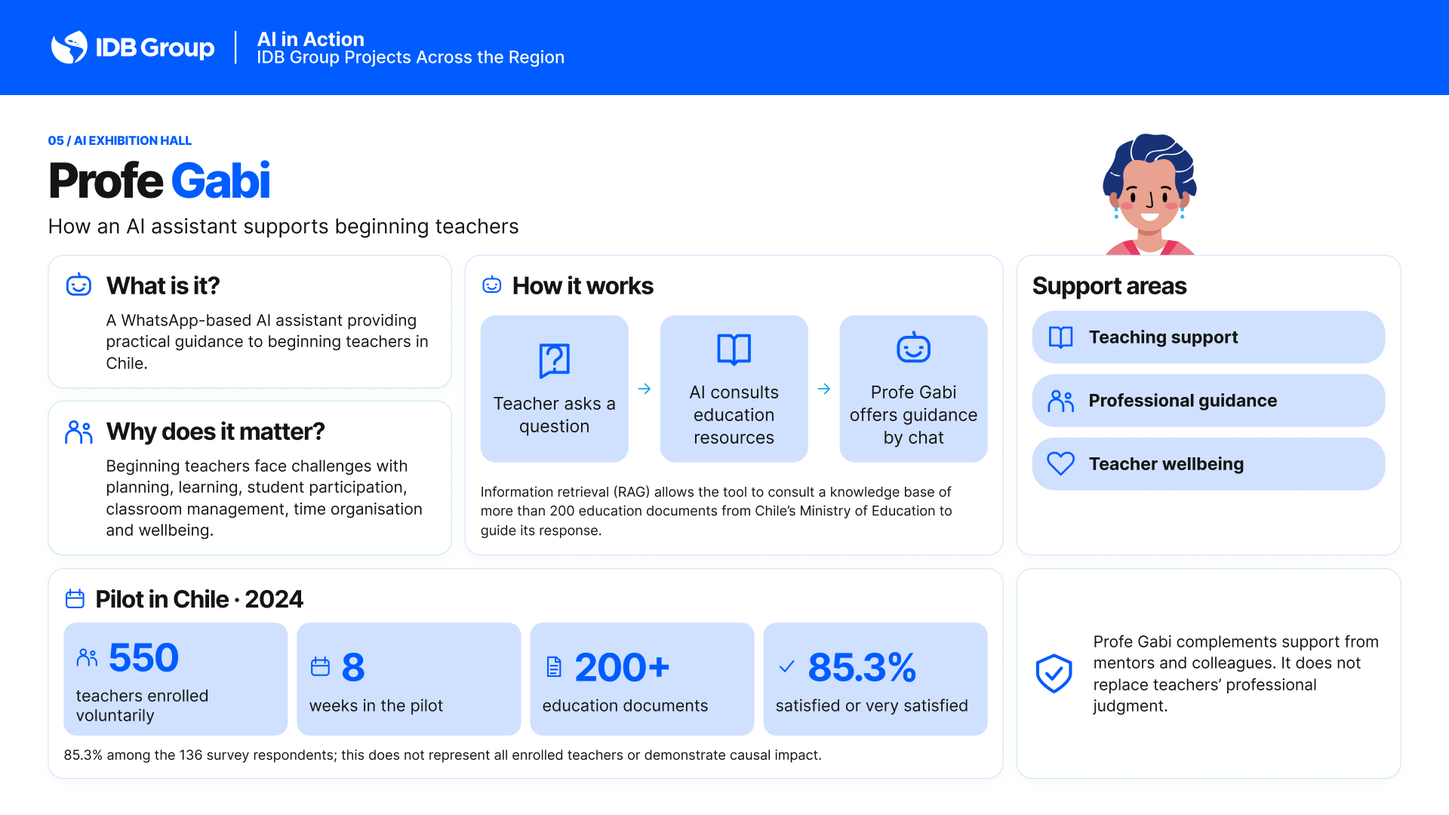
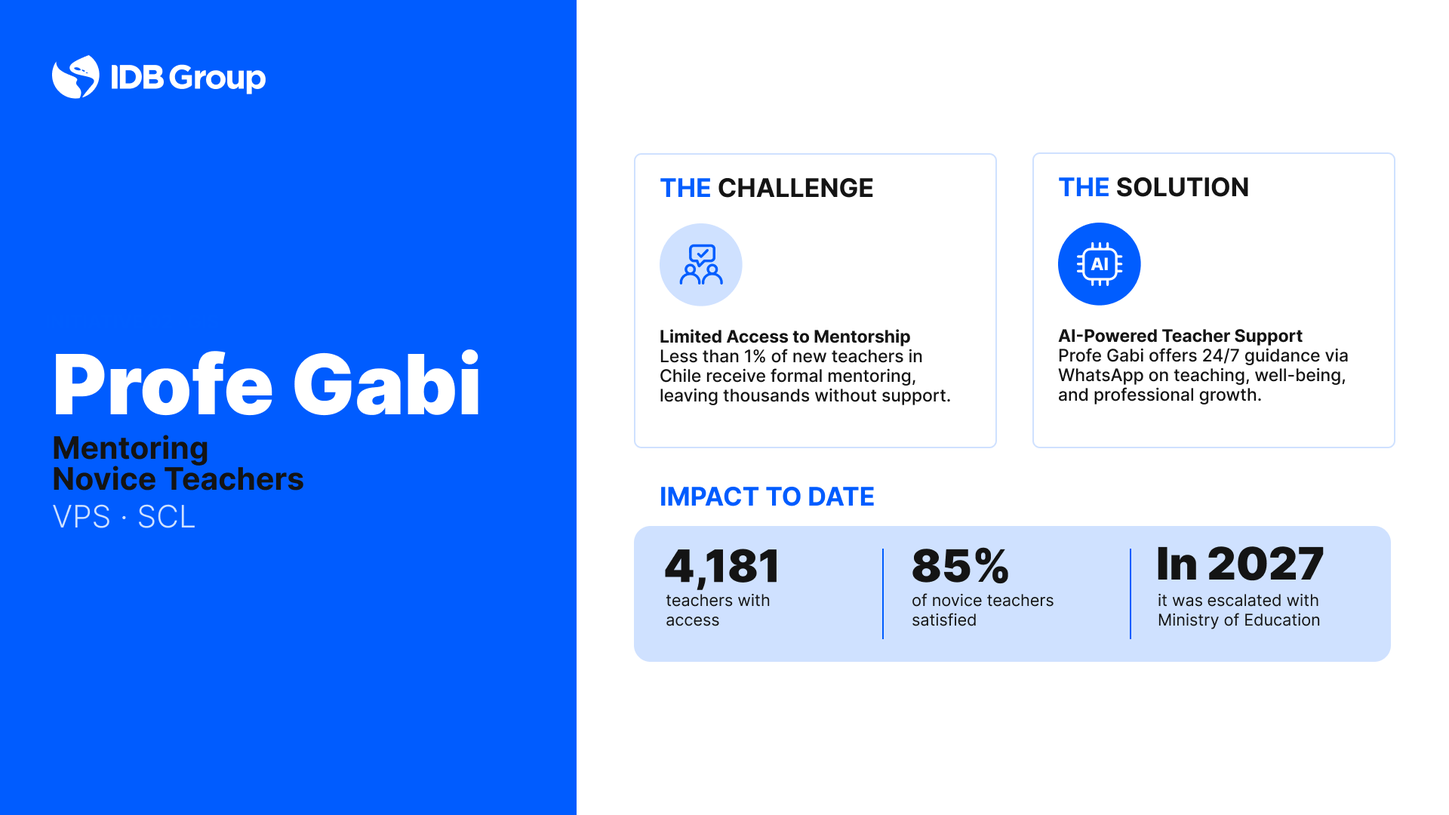
Profe Gabi: publish approved screens and remove extra toolbar (#39)

diff --git a/projects/05-profe-gabi/experience.js b/projects/05-profe-gabi/experience.js
@@ -5,7 +5,7 @@
  const scripts=window.PROFE_GABI_CONVERSATIONS;
  const words={
  es:{station:'ESTACIÓN',home:'Inicio',menu:'Menú principal',fullscreen:'Pantalla completa',back:'Volver',info:'Información',game:'Experiencia interactiva',subtitle:'IA de apoyo para docentes',description:'Asistente que apoya a docentes principiantes en sus retos cotidianos.',infoHelp:'Descubre el desafío, cómo funciona Profe Gabi y la evidencia del piloto.',gameHelp:'Vive un caso basado en conversaciones reales, con una decisión de seguimiento.',enrolled:'docentes inscritos',pilot:'Piloto en Chile · 2024',locked:'Información y Experiencia interactiva están disponibles desde el inicio.',watch:'La infografía está en la pantalla principal. Puedes comenzar el experiencia interactiva cuando quieras.',ready:'Todo listo para conversar con Profe Gabi.',start:'Comenzar experiencia interactiva',invite:'Descubre una nueva forma de acompañar a quienes enseñan.',inviteAction:'Elige Información o Experiencia interactiva en la tableta para comenzar.',tag:'Casos reales · Adaptación para exhibición',topicTitle:'¿Qué necesitas hoy, profe?',topicBody:'Elige una situación de los tres ámbitos de apoyo: práctica pedagógica, desarrollo profesional y bienestar.',situationTitle:'¿Qué situación quieres resolver?',followTitle:'¿En qué te gustaría enfocarte ahora?',followBody:'Elige cómo continuar. Tu elección se convertirá en un mensaje en la pantalla principal.',busyTitle:'Tu conversación está en marcha',busyBody:'Observa la pantalla principal. Las opciones se habilitarán cuando termine la respuesta.',writing:'Escribiendo tu mensaje…',thinking:'Profe Gabi está pensando…',wait:'Preparando la siguiente elección…',skip:'Omitir animación',restart:'Reiniciar',again:'Volver a jugar',other:'Elegir otra situación',complete:'¡Conversación completada!',learned:'Lo que aprendiste con Profe Gabi',lessons:['Dar contexto mejora la orientación recibida.','La IA propone ideas, pero el docente decide.','Profe Gabi complementa el acompañamiento humano.'],you:'TÚ',greeting:'¡Hola! Soy Profe Gabi. ¿En qué te gustaría recibir orientación hoy?',topicPrefix:'Quisiera orientación sobre ',reminder:'Recuerda: estas ideas son puntos de partida. Tu criterio profesional y el acompañamiento de mentores y colegas siguen siendo esenciales.',chatPlaceholder:'Tus elecciones se convierten en mensajes…',simulated:'Asistente virtual · Conversación simulada',disclaimer:'Adaptación de mensajes reales facilitados por el equipo. Profe Gabi puede equivocarse; el docente decide.',controlHint:'Tú eliges en la tableta. La conversación cobra vida en la pantalla principal.',connected:'Conectado',connecting:'Conectando…',offline:'Sin conexión · Reintentando…',reconnected:'Conexión recuperada',retry:'Reintentar',what:'¿Qué es?',why:'¿Por qué importa?',how:'Cómo funciona',areas:'Áreas de apoyo',whatBody:'Un asistente de IA por WhatsApp que proporciona orientación práctica a docentes principiantes en Chile.',whyBody:'Al comenzar, los docentes enfrentan retos de planificación, aprendizaje, participación del alumnado, manejo del aula, organización del tiempo y bienestar.',flow:['Docente hace una pregunta','IA consulta recursos educativos','Profe Gabi entrega orientación por chat'],rag:'La recuperación de información (RAG) permite consultar una base de más de 200 documentos educativos del Ministerio de Educación de Chile para orientar la respuesta.',areaNames:['Práctica pedagógica','Desarrollo profesional','Bienestar docente'],metrics:['docentes inscritos voluntariamente','semanas de piloto','documentos educativos','satisfechos o muy satisfechos'],qualifier:'85,3 % entre las 136 personas que respondieron la encuesta; no representa a todos los inscritos ni demuestra impacto causal.',note:'Profe Gabi complementa el acompañamiento de mentores y colegas. No reemplaza el criterio profesional docente.',infoTitle:'Cómo una IA acompaña a docentes principiantes',selectedTopic:'Situación elegida',noFullscreen:'Pantalla completa no disponible en este navegador.'},
- en:{station:'STATION',home:'Home',menu:'Main menu',fullscreen:'Fullscreen',back:'Back',info:'Information',game:'Interactive Experience',subtitle:'AI support for teachers',description:'An AI mentor for novice teachers in Chile, supporting their teaching practice, well-being and professional development.',infoHelp:'Discover the challenge, how Profe Gabi works, and the project’s pilot evidence.',gameHelp:'Experience a case based on real conversations, with one follow-up decision.',enrolled:'teachers enrolled',pilot:'Pilot in Chile · 2024',locked:'Information and Interactive Experience are available from the start.',watch:'The infographic is on the main display. You can start the Interactive Experience whenever you like.',ready:'Ready to talk with Profe Gabi.',start:'Start Interactive Experience',invite:'Discover a new way to support those who teach.',inviteAction:'Select Information or Interactive Experience on the tablet to begin.',tag:'Real cases · Exhibition adaptation',topicTitle:'What do you need today, teacher?',topicBody:'Choose a situation across three support areas: teaching practice, professional development and wellbeing.',situationTitle:'Which situation would you like to address?',followTitle:'What would you like to focus on now?',followBody:'Choose how to continue. Your choice will become a message on the main display.',busyTitle:'Your conversation is underway',busyBody:'Watch the main display. Choices will become available when the response is complete.',writing:'Writing your message…',thinking:'Profe Gabi is thinking…',wait:'Preparing the next choice…',skip:'Skip animation',restart:'Restart',again:'Play again',other:'Choose another situation',complete:'Conversation completed!',learned:'What you learned with Profe Gabi',lessons:['Giving context improves the guidance you receive.','AI proposes ideas; the teacher decides.','Profe Gabi complements human support.'],you:'YOU',greeting:'Hi! I’m Profe Gabi. What would you like guidance on today?',topicPrefix:'I would like guidance on ',reminder:'Remember: these ideas are starting points. Your professional judgment and support from mentors and colleagues remain essential.',chatPlaceholder:'Your choices become messages…',simulated:'Virtual assistant · Simulated conversation',disclaimer:'English translation of adapted, anonymised real cases. Profe Gabi can make mistakes; the teacher decides.',controlHint:'You choose on the tablet. The conversation comes to life on the main display.',connected:'Connected',connecting:'Connecting…',offline:'Offline · Reconnecting…',reconnected:'Connection restored',retry:'Retry',what:'What is it?',why:'Why does it matter?',how:'How it works',areas:'Support areas',whatBody:'A WhatsApp-based AI assistant providing practical guidance to beginning teachers in Chile.',whyBody:'Beginning teachers face challenges with planning, learning, student participation, classroom management, time organisation and wellbeing.',flow:['Teacher asks a question','AI consults education resources','Profe Gabi offers guidance by chat'],rag:'Information retrieval (RAG) allows the tool to consult a knowledge base of more than 200 education documents from Chile’s Ministry of Education to guide its response.',areaNames:['Teaching practice','Professional development','Teacher wellbeing'],metrics:['teachers enrolled voluntarily','weeks in the pilot','education documents','satisfied or very satisfied'],qualifier:'85.3% among the 136 survey respondents; this does not represent all enrolled teachers or demonstrate causal impact.',note:'Profe Gabi complements support from mentors and colleagues. It does not replace teachers’ professional judgment.',infoTitle:'How an AI assistant supports beginning teachers',selectedTopic:'Selected situation',noFullscreen:'Fullscreen is unavailable in this browser.'}
+ en:{station:'STATION',home:'Home',menu:'Main menu',fullscreen:'Fullscreen',back:'Back',info:'Information',game:'Interactive Experience',subtitle:'AI support for teachers',description:'An AI mentor for novice teachers in Chile, supporting their teaching practice, well-being and professional development.',infoHelp:'Discover the challenge, how Profe Gabi works, and the project’s pilot evidence.',gameHelp:'Experience a case based on real conversations, with one follow-up decision.',enrolled:'teachers enrolled',pilot:'Pilot in Chile · 2024',locked:'Information and Interactive Experience are available from the start.',watch:'The infographic is on the main display. You can start the Interactive Experience whenever you like.',ready:'Ready to talk with Profe Gabi.',start:'Start Interactive Experience',invite:'Discover a new way to support those who teach.',inviteAction:'Select Information or Interactive Experience on the tablet to begin.',tag:'Real cases · Exhibition adaptation',topicTitle:'What do you need today, teacher?',topicBody:'Choose a situation across three support areas: teaching practice, professional development and wellbeing.',situationTitle:'Which situation would you like to address?',followTitle:'What would you like to focus on now?',followBody:'Choose how to continue. Your choice will become a message on the main display.',busyTitle:'Your conversation is underway',busyBody:'Watch the main display. Choices will become available when the response is complete.',writing:'Writing your message…',thinking:'Profe Gabi is thinking…',wait:'Preparing the next choice…',skip:'Skip animation',restart:'Restart',again:'Play again',other:'Choose another situation',complete:'Conversation completed!',learned:'What you learned with Profe Gabi',lessons:['Giving context improves the guidance you receive.','AI proposes ideas; the teacher decides.','Profe Gabi complements human support.'],you:'YOU',greeting:'Hi! I’m Profe Gabi. What would you like guidance on today?',topicPrefix:'I would like guidance on ',reminder:'Remember: these ideas are starting points. Your professional judgment and support from mentors and colleagues remain essential.',chatPlaceholder:'Your choices become messages…',simulated:'Virtual assistant · Simulated conversation',disclaimer:'Preprogrammed exhibition messages; these are not actual or verified Profe Gabi responses.',controlHint:'You choose on the tablet. The conversation comes to life on the main display.',connected:'Connected',connecting:'Connecting…',offline:'Offline · Reconnecting…',reconnected:'Connection restored',retry:'Retry',what:'What is it?',why:'Why does it matter?',how:'How it works',areas:'Support areas',whatBody:'A WhatsApp-based AI assistant providing practical guidance to beginning teachers in Chile.',whyBody:'Beginning teachers face challenges with planning, learning, student participation, classroom management, time organisation and wellbeing.',flow:['Teacher asks a question','AI consults education resources','Profe Gabi offers guidance by chat'],rag:'Information retrieval (RAG) allows the tool to consult a knowledge base of more than 200 education documents from Chile’s Ministry of Education to guide its response.',areaNames:['Teaching practice','Professional development','Teacher wellbeing'],metrics:['teachers enrolled voluntarily','weeks in the pilot','education documents','satisfied or very satisfied'],qualifier:'85.3% among the 136 survey respondents; this does not represent all enrolled teachers or demonstrate causal impact.',note:'Profe Gabi complements support from mentors and colleagues. It does not replace teachers’ professional judgment.',infoTitle:'How an AI assistant supports beginning teachers',selectedTopic:'Selected situation',noFullscreen:'Fullscreen is unavailable in this browser.'}
  };
  const icons={arrow:'<path d="M4 12h16m-7-7 7 7-7 7"/>',back:'<path d="M20 12H4m7-7-7 7 7 7"/>',home:'<path d="m3 11 9-8 9 8M6 9v12h5v-7h3v7h4V9"/>',book:'<path d="M3 4h7l2 2 2-2h7v15h-7l-2 2-2-2H3zM12 6v15"/>',people:'<circle cx="8" cy="7" r="3"/><circle cx="18" cy="8" r="2"/><path d="M2 21v-4a6 6 0 0 1 12 0v4m2-8a5 5 0 0 1 6 5v3"/>',heart:'<path d="M12 21 3 12C-3 4 8-1 12 6c4-7 15-2 9 6z"/>',bot:'<rect x="3" y="5" width="18" height="14" rx="5"/><path d="m12 2 1 3M7 11h1m8 0h1m-9 3q4 4 8 0"/>',question:'<path d="M8 8a4 4 0 0 1 8 0c0 3-4 3-4 6m0 3v1"/><path d="M4 3h16v16H9l-5 3z"/>',check:'<path d="m5 12 5 5 9-11"/>',clock:'<circle cx="12" cy="12" r="9"/><path d="M12 6v7l4 2"/>',calendar:'<rect x="3" y="5" width="18" height="16" rx="3"/><path d="M7 2v6m10-6v6M3 11h18"/>',shield:'<path d="m12 2 9 4v6c0 5-9 10-9 10S3 17 3 12V6zM8 12l3 3 5-6"/>',expand:'<path d="M9 3H3v6m12-6h6v6M3 15v6h6m12-6v6h-6"/>',reset:'<path d="M4 6v6h6M4 12a8 8 0 1 0 2-6"/>',send:'<path d="m3 3 19 9-19 9 4-9-4-9zm4 9h15"/>',document:'<path d="M6 2h9l4 4v16H6zM14 2v5h5M9 11h7m-7 4h7m-7 4h5"/>'};
  const icon=name=>`<svg viewBox="0 0 24 24" fill="none" stroke="currentColor" stroke-width="1.7" stroke-linecap="round" stroke-linejoin="round" aria-hidden="true">${icons[name]||icons.bot}</svg>`;

diff --git a/projects/05-profe-gabi/artwork.js b/projects/05-profe-gabi/artwork.js
@@ -1,35 +1,33 @@
 /* Approved PNGs + proportional HTML hit areas; current dialogue stays live. */
 (function(){
  const observers=new WeakMap();
- const R={info:[68,554,853,345],game:[964,554,853,345],topics:[[140,588,449,101],[670,588,443,99],[142,712,443,97],[670,712,443,97]],follow:[[140,586,619,102],[142,712,615,96]],back:[142,889,249,69],skip:[436,889,321,70],resultBack:[142,743,249,69],again:[436,743,321,69]};
+ const R={info:[68,618,853,265],game:[1001,618,853,265],topics:[[140,588,449,101],[670,588,443,99],[142,712,443,97],[670,712,443,97]],follow:[[140,586,619,102],[142,712,615,96]],back:[142,889,249,69],skip:[436,889,321,70],resultBack:[142,743,249,69],again:[436,743,321,69]};
  const rect=r=>`left:${r[0]}px;top:${r[1]}px;width:${r[2]}px;height:${r[3]}px`;
  function dispose(mount){observers.get(mount)?.disconnect();observers.delete(mount);}
  function paint(mount,state,api){
   const image=mount.querySelector('[data-art-initial]');
-  if(image){const a=api.animation(state),file=a?.sent?'tablet-cases-thinking-en.png':'tablet-cases-wait-en.png';if(image.dataset.file!==file){image.src=api.assets('branded/'+file)+'?v=20261109-event-en-chat-es';image.dataset.file=file;}}
+  if(image){const a=api.animation(state),file=a?.sent?'tablet-cases-thinking-en.png':'tablet-cases-wait-en.png';if(image.dataset.file!==file){image.src=api.assets('branded/'+file)+'?v=20261113-start-only';image.dataset.file=file;}}
  }
  function render({mount,state,readonly,api}){
   if(state.language!=='en')return false;
   const {assets,escape,icon,avatar,chat,words:t,scripts,header,footer,content,connectionLabel}=api;
   const g=state.game,isGame=state.mode==='game'||state.mode==='results',isInfo=['info','cta'].includes(state.mode),busy=isGame&&g.phase==='animating',complete=isGame&&g.phase==='complete';
+  const legacyCases=isGame&&(g.phase==='topics'||busy&&g.turn==='situation'&&g.part===0);
   const topic=scripts.en[g.topic],branch=topic?.options[0],follow=branch?.follow[g.follow];
-  const path=name=>assets('branded/'+name)+'?v=20261109-event-en-chat-es';
+  const path=name=>assets('branded/'+name)+'?v=20261113-start-only';
   const hot=(r,label,attrs,disabled=false)=>`<button type="button" class="gabi-art-hotspot" style="${rect(r)}" aria-label="${escape(label)}" ${attrs} ${disabled?'disabled aria-disabled="true"':''}><span class="gabi-artwork-accessible">${escape(label)}</span></button>`;
   const crop=(file,r,cls='')=>`<div class="gabi-art-crop ${cls}" style="${rect(r)}"><img src="${path(file)}" alt="" style="left:${-r[0]}px;top:${-r[1]}px"></div>`;
   const mask=(r,html,cls='')=>`<div class="gabi-art-mask ${cls}" style="${rect(r)}">${html}</div>`;
   const outline=(r,selected,disabled=false)=>`<span class="gabi-art-outline ${selected?'is-selected':''} ${disabled?'is-disabled':''}" style="${rect(r)}" aria-hidden="true"></span>`;
-  const toolbar=readonly?'':`<div class="gabi-art-toolbar"><div class="gabi-language" aria-label="Interface language"><span class="is-active">EN</span></div><button type="button" class="gabi-button gabi-icon" data-action="home" aria-label="${t.home}" title="${t.home}">${icon('home')}</button><button type="button" class="gabi-button" data-action="menu">${t.menu}</button><button type="button" class="gabi-button gabi-icon" data-action="fullscreen" aria-label="${t.fullscreen}" title="${t.fullscreen}">${icon('expand')}</button><span class="gabi-art-connection" data-gabi-connection data-status="connected" role="status">${connectionLabel('en')}</span></div>`;
+  const toolbar=readonly?'':hot([1720,38,132,50],t.home,'data-action="home" title="Home"');
   let file,overlays='',semantic='',marker='',initial=false;
-  if(readonly&&isInfo){file='tv-information-en.png';semantic=`<section class="gabi-artwork-accessible">${header}${content}${footer}</section>`;}
+  if(!readonly&&isGame)overlays+=crop('tablet-follow-en.png',[0,0,1920,126],'gabi-art-header');
+  if(readonly&&isInfo){file='tv-information-en.png';semantic=`<section class="gabi-artwork-accessible"><h1>Profe Gabi — Mentoring Novice Teachers</h1><p>VPS · SCL</p><h2>THE CHALLENGE</h2><p>Limited Access to Mentorship. Less than 1% of new teachers in Chile receive formal mentoring, leaving thousands without support.</p><h2>THE SOLUTION</h2><p>AI-Powered Teacher Support. Profe Gabi offers 24/7 guidance via WhatsApp on teaching, well-being, and professional growth.</p><h2>IMPACT TO DATE</h2><p>4,181 teachers with access. 85% of novice teachers satisfied. In 2027 it was escalated with Ministry of Education.</p></section>`;}
   else if(!readonly&&!isGame){
    file='tablet-cover-en.png';marker='gabi-hero';
-   overlays+=mask([64,262,850,165],'<p class="gabi-art-kicker">05 / AI in Action</p><h1>Profe <em>Gabi</em></h1>','gabi-art-cover-title');
-   if(!g.ready)overlays+=crop(file,R.game,'is-locked');
-   overlays+=hot(R.info,t.info,'data-action="information"');
-   const game=hot(R.game,g.ready?t.start:t.game,'data-action="game"',!g.ready);
-   overlays+=isInfo&&g.ready?`<div class="gabi-info-controls gabi-art-cta">${game}</div>`:game;
-   overlays+=mask([995,650,480,105],'<h2>Interactive<br>Experience</h2>','gabi-art-cover-game');
-   overlays+=mask([70,930,1745,70],`<p>${isInfo?(g.ready?t.ready:t.watch):g.ready?'':t.locked}</p>`,'gabi-art-status');
+   overlays+=hot(R.info,'About the project','data-action="information"');
+   const game=hot(R.game,'Interactive Experience','data-action="game"');
+   overlays+=isInfo?`<div class="gabi-info-controls gabi-art-cta">${game}</div>`:game;
    semantic=`<section class="gabi-artwork-accessible"><h1>Profe Gabi</h1><p>${t.description}</p></section>`;
   }else if(!readonly){
    const cases=g.phase==='topics'||busy&&g.turn==='situation';
@@ -47,7 +45,7 @@
     if(busy){overlays+=crop('tablet-cases-thinking-en.png',R.back)+crop('tablet-cases-thinking-en.png',R.skip);overlays+=hot(R.back,t.back,'data-action="back"')+hot(R.skip,t.skip,'data-action="skip"');}
    }else if(complete){
     file='tablet-result-en.png';marker='gabi-summary';
-    overlays+=mask([135,400,990,310],`<h1>Conversation <em>completed!</em></h1><p>${escape(follow.take)}</p>`,'gabi-art-result-copy');
+    semantic=`<section class="gabi-artwork-accessible"><h1>Conversation completed!</h1><p>Profe Gabi supports planning while the teacher adapts and decides, complementing mentors and colleagues without replacing professional judgment.</p></section>`;
     overlays+=hot(R.resultBack,t.back,'data-action="back"')+hot(R.again,t.again,'data-action="restart"');
    }else{
     file='tablet-follow-en.png';
@@ -57,12 +55,19 @@
     if(busy){overlays+=crop('tablet-cases-thinking-en.png',R.skip);overlays+=hot(R.skip,t.skip,'data-action="skip"');}
    }
    if(!complete)overlays+=mask([140,829,990,47],`<p ${busy?'data-animation-status':''}>${busy?t.writing:t.controlHint}</p>`,'gabi-art-status');
-   overlays+=mask([1237,540,521,138],`<p>${topic?t.selectedTopic:'PROFE GABI'}</p><h2>${escape(topic?.title||t.subtitle)}</h2>`,'gabi-art-context');
-   overlays+=mask([1240,744,510,35],`<p>${t.tag}</p>`,'gabi-art-tag');
+   if(legacyCases){
+    overlays+=mask([1237,540,521,138],`<p>${topic?t.selectedTopic:'PROFE GABI'}</p><h2>${escape(topic?.title||t.subtitle)}</h2>`,'gabi-art-context');
+    overlays+=mask([1240,744,510,35],`<p>${t.tag}</p>`,'gabi-art-tag');
+   }else{
+   overlays+=mask([1248,540,505,134],`<p>SELECTED TOPIC</p><h2>${escape(topic?.title||'Profe Gabi')}</h2><div>You choose on the tablet. The conversation comes to life on the main display.</div>`,'gabi-art-context is-updated');
+   const step=complete?3:g.turn==='follow'||g.phase==='follow'?2:1;
+   overlays+=mask([1248,681,400,54],`<div class="gabi-art-steps" aria-label="Step ${step} of 3">${[1,2,3].map(i=>`<span class="${i<=step?'is-active':''}">${String(i).padStart(2,'0')}</span>`).join('')}</div>`,'gabi-art-progress');
+   }
   }else{
    file=complete?'tv-result-en.png':busy?'tv-chat-en.png':'tv-situation-en.png';
-   if(complete){overlays+=mask([135,790,655,180],`<p>${escape(follow.take)}</p>`,'gabi-art-takeaway');}
-   else overlays+=mask([135,265,655,435],`<h1>${!isGame?'Profe <em>Gabi</em>':g.phase==='topics'?'What do you <em>need today?</em>':'<span class="gabi-heading-line">Virtual</span><span class="gabi-heading-line">assistant</span><em class="gabi-heading-name">Profe Gabi</em>'}</h1><p>${topic?`${t.selectedTopic}: ${escape(topic.title)}`:t.inviteAction}</p>`,'gabi-art-tv-heading');
+   if(complete){semantic=`<section class="gabi-artwork-accessible gabi-art-takeaway"><h1>Conversation completed!</h1><p>What you learned with Profe Gabi</p>${t.lessons.map(l=>`<p>${escape(l)}</p>`).join('')}<p>Useful guidance starts with describing the class, the content and what you want to achieve.</p></section>`;}
+   else if(!isGame||g.phase==='topics')overlays+=mask([135,265,655,435],`<h1>${!isGame?'Profe <em>Gabi</em>':'What do you <em>need today?</em>'}</h1><p>${t.inviteAction}</p>`,'gabi-art-tv-heading');
+   else overlays+=mask([136,574,660,90],`<p>${t.selectedTopic}: ${escape(topic.title)}</p>`,'gabi-art-tv-selected');
    const r=[860,206,920,778];
    if(!isGame||g.phase==='topics'){
     overlays+=`<section class="gabi-art-welcome ${isGame?'gabi-game-welcome':'gabi-tv-invite'}" style="${rect(r)}">${avatar()}<h2>${isGame?t.topicTitle:t.invite}</h2><p>${isGame?t.topicBody:t.inviteAction}</p>${isGame?`<div class="gabi-art-case-list">${scripts.en.map(c=>`<p><strong>${escape(c.title)}</strong><small>${escape(c.sub)}</small></p>`).join('')}</div>`:''}</section>`;

diff --git a/display.html b/display.html
@@ -1,1 +1,1 @@
-<!doctype html><html lang="en"><head><meta charset="UTF-8"><meta name="viewport" content="width=device-width, initial-scale=1"><title>AI in Action | Main Display</title><link rel="stylesheet" href="shared/styles.css?v=20261029-01"><link rel="stylesheet" href="projects/01-aquadata/aquadata.css?v=20261111-05"><link rel="stylesheet" href="projects/03-costa-rica-smart-borders/module.css?v=20261113-fig-9"><link rel="stylesheet" href="projects/04-parque-tecnologico-guatiguara/module.css?v=20261108-gt-4"><link rel="stylesheet" href="projects/05-profe-gabi/module.css?v=20261109-chat-font22"><link rel="stylesheet" href="projects/05-profe-gabi/artwork.css?v=20261109-balanced-experience"><link rel="stylesheet" href="projects/06-reglac/module.css"><link rel="stylesheet" href="projects/07-csd-maiia/module.css"><link rel="stylesheet" href="projects/08-teachy/module.css?v=20261113-portada-1"><link rel="stylesheet" href="projects/11-rsm-rise/module.css?v=20261113-rise-responsive"><link rel="stylesheet" href="projects/10-vpc-country-intelligence/module.css?v=20261106-country-intelligence"><link rel="stylesheet" href="projects/02-bogota-traffic-prediction/rebrand.css?v=20261112-figma-12"><link rel="stylesheet" href="projects/02-bogota-traffic-prediction/insights.css?v=20261109-stage-22"><link rel="stylesheet" href="projects/02-bogota-traffic-prediction/control-center.css?v=20261112-figma-12"><link rel="stylesheet" href="projects/02-bogota-traffic-prediction/completion.css?v=20261112-figma-12"><link rel="stylesheet" href="shared/home-branding.css?v=20261110-home-art"></head><body><div id="app"></div><script src="shared/projects.js?v=20261029-01"></script><script src="shared/home-art.js?v=20261112-home-final"></script><script src="shared/brand-art.js"></script><script src="shared/brand.js?v=20261029-01"></script><script src="shared/sync.js?v=20261106-country-intelligence"></script><script src="shared/aquadata.js?v=20261112-01"></script><script src="projects/01-aquadata/visual.js?v=20261111-03"></script><script src="projects/05-profe-gabi/state.js?v=20261109-balanced-experience"></script><script src="projects/05-profe-gabi/conversations.js?v=20261109-balanced-experience"></script><script src="projects/05-profe-gabi/artwork.js?v=20261109-balanced-experience"></script><script src="projects/05-profe-gabi/experience.js?v=20261109-balanced-experience"></script><script src="projects/06-reglac/state.js"></script><script src="projects/06-reglac/experience.js"></script><script src="projects/07-csd-maiia/state.js"></script><script src="projects/07-csd-maiia/experience.js"></script><script src="projects/07-csd-maiia/artwork.js"></script><script src="projects/08-teachy/experience.js?v=20261113-portada-1"></script><script src="projects/03-costa-rica-smart-borders/cover.js?v=20261113-fig-9"></script><script src="projects/03-costa-rica-smart-borders/tv.js?v=20261113-fig-9"></script><script src="projects/11-rsm-rise/state.js?v=20261113-rise-responsive"></script><script src="projects/11-rsm-rise/game.js?v=20261113-rise-responsive"></script><script src="projects/11-rsm-rise/experience.js?v=20261113-rise-responsive"></script><script src="projects/10-vpc-country-intelligence/state.js?v=20261106-country-intelligence"></script><script src="projects/10-vpc-country-intelligence/translations.js?v=20261106-country-intelligence"></script><script src="projects/10-vpc-country-intelligence/prototype.js?v=20261106-country-intelligence"></script><script src="projects/10-vpc-country-intelligence/experience.js?v=20261106-country-intelligence"></script><script src="shared/bogota-traffic.js?v=20261107-info-03"></script><script src="projects/02-bogota-traffic-prediction/visual.js?v=20261112-figma-12"></script><script src="projects/02-bogota-traffic-prediction/vendor/qrcode.js?v=1.4.4"></script><script src="projects/02-bogota-traffic-prediction/ranking.js?v=20261107-01"></script><script src="projects/02-bogota-traffic-prediction/completion.js?v=20261112-figma-12"></script><script src="projects/02-bogota-traffic-prediction/icons.js?v=20261112-figma-12"></script><script src="projects/02-bogota-traffic-prediction/pulse-vial.js?v=20261112-figma-12"></script><script src="projects/02-bogota-traffic-prediction/insights.js?v=20261109-stage-22"></script><script src="projects/02-bogota-traffic-prediction/exploration.js?v=20261112-figma-12"></script><script src="projects/02-bogota-traffic-prediction/view-state.js?v=20261108-city-01"></script><script src="projects/02-bogota-traffic-prediction/native-map.js?v=20261110-stage-22"></script><script src="projects/02-bogota-traffic-prediction/control-center.js?v=20261112-figma-12"></script><script src="shared/display.js?v=20261113-cr-video-1"></script></body></html>
+<!doctype html><html lang="en"><head><meta charset="UTF-8"><meta name="viewport" content="width=device-width, initial-scale=1"><title>AI in Action | Main Display</title><link rel="stylesheet" href="shared/styles.css?v=20261029-01"><link rel="stylesheet" href="projects/01-aquadata/aquadata.css?v=20261111-05"><link rel="stylesheet" href="projects/03-costa-rica-smart-borders/module.css?v=20261113-fig-9"><link rel="stylesheet" href="projects/04-parque-tecnologico-guatiguara/module.css?v=20261108-gt-4"><link rel="stylesheet" href="projects/05-profe-gabi/module.css?v=20261109-chat-font22"><link rel="stylesheet" href="projects/05-profe-gabi/artwork.css?v=20261113-start-only"><link rel="stylesheet" href="projects/06-reglac/module.css"><link rel="stylesheet" href="projects/07-csd-maiia/module.css"><link rel="stylesheet" href="projects/08-teachy/module.css?v=20261113-portada-1"><link rel="stylesheet" href="projects/11-rsm-rise/module.css?v=20261113-rise-responsive"><link rel="stylesheet" href="projects/10-vpc-country-intelligence/module.css?v=20261106-country-intelligence"><link rel="stylesheet" href="projects/02-bogota-traffic-prediction/rebrand.css?v=20261112-figma-12"><link rel="stylesheet" href="projects/02-bogota-traffic-prediction/insights.css?v=20261109-stage-22"><link rel="stylesheet" href="projects/02-bogota-traffic-prediction/control-center.css?v=20261112-figma-12"><link rel="stylesheet" href="projects/02-bogota-traffic-prediction/completion.css?v=20261112-figma-12"><link rel="stylesheet" href="shared/home-branding.css?v=20261110-home-art"></head><body><div id="app"></div><script src="shared/projects.js?v=20261029-01"></script><script src="shared/home-art.js?v=20261112-home-final"></script><script src="shared/brand-art.js"></script><script src="shared/brand.js?v=20261029-01"></script><script src="shared/sync.js?v=20261106-country-intelligence"></script><script src="shared/aquadata.js?v=20261112-01"></script><script src="projects/01-aquadata/visual.js?v=20261111-03"></script><script src="projects/05-profe-gabi/state.js?v=20261113-start-only"></script><script src="projects/05-profe-gabi/conversations.js?v=20261113-start-only"></script><script src="projects/05-profe-gabi/artwork.js?v=20261113-start-only"></script><script src="projects/05-profe-gabi/experience.js?v=20261113-start-only"></script><script src="projects/06-reglac/state.js"></script><script src="projects/06-reglac/experience.js"></script><script src="projects/07-csd-maiia/state.js"></script><script src="projects/07-csd-maiia/experience.js"></script><script src="projects/07-csd-maiia/artwork.js"></script><script src="projects/08-teachy/experience.js?v=20261113-portada-1"></script><script src="projects/03-costa-rica-smart-borders/cover.js?v=20261113-fig-9"></script><script src="projects/03-costa-rica-smart-borders/tv.js?v=20261113-fig-9"></script><script src="projects/11-rsm-rise/state.js?v=20261113-rise-responsive"></script><script src="projects/11-rsm-rise/game.js?v=20261113-rise-responsive"></script><script src="projects/11-rsm-rise/experience.js?v=20261113-rise-responsive"></script><script src="projects/10-vpc-country-intelligence/state.js?v=20261106-country-intelligence"></script><script src="projects/10-vpc-country-intelligence/translations.js?v=20261106-country-intelligence"></script><script src="projects/10-vpc-country-intelligence/prototype.js?v=20261106-country-intelligence"></script><script src="projects/10-vpc-country-intelligence/experience.js?v=20261106-country-intelligence"></script><script src="shared/bogota-traffic.js?v=20261107-info-03"></script><script src="projects/02-bogota-traffic-prediction/visual.js?v=20261112-figma-12"></script><script src="projects/02-bogota-traffic-prediction/vendor/qrcode.js?v=1.4.4"></script><script src="projects/02-bogota-traffic-prediction/ranking.js?v=20261107-01"></script><script src="projects/02-bogota-traffic-prediction/completion.js?v=20261112-figma-12"></script><script src="projects/02-bogota-traffic-prediction/icons.js?v=20261112-figma-12"></script><script src="projects/02-bogota-traffic-prediction/pulse-vial.js?v=20261112-figma-12"></script><script src="projects/02-bogota-traffic-prediction/insights.js?v=20261109-stage-22"></script><script src="projects/02-bogota-traffic-prediction/exploration.js?v=20261112-figma-12"></script><script src="projects/02-bogota-traffic-prediction/view-state.js?v=20261108-city-01"></script><script src="projects/02-bogota-traffic-prediction/native-map.js?v=20261110-stage-22"></script><script src="projects/02-bogota-traffic-prediction/control-center.js?v=20261112-figma-12"></script><script src="shared/display.js?v=20261113-cr-video-1"></script></body></html>

diff --git a/projects/05-profe-gabi/index.html b/projects/05-profe-gabi/index.html
@@ -1,13 +1,13 @@
 <!doctype html>
-<html lang="en"><head><meta charset="UTF-8"><meta name="viewport" content="width=device-width, initial-scale=1, viewport-fit=cover"/><meta name="theme-color" content="#f8fcff"><title>AI in Action | Profe Gabi</title><link rel="stylesheet" href="../../shared/styles.css"><link rel="stylesheet" href="./module.css?v=20261109-chat-font22"><link rel="stylesheet" href="./artwork.css?v=20261109-balanced-experience"></head>
+<html lang="en"><head><meta charset="UTF-8"><meta name="viewport" content="width=device-width, initial-scale=1, viewport-fit=cover"/><meta name="theme-color" content="#f8fcff"><title>AI in Action | Profe Gabi</title><link rel="stylesheet" href="../../shared/styles.css"><link rel="stylesheet" href="./module.css?v=20261109-chat-font22"><link rel="stylesheet" href="./artwork.css?v=20261113-start-only"></head>
 <body class="project-page">
 <main id="app" aria-live="polite"></main>
 <script src="../../shared/projects.js"></script>
 <script src="../../shared/brand-art.js"></script><script src="../../shared/brand.js"></script><script src="../../shared/sync.js"></script>
-<script src="./state.js?v=20261109-balanced-experience"></script>
-<script src="./conversations.js?v=20261109-balanced-experience"></script>
-<script src="./artwork.js?v=20261109-balanced-experience"></script>
-<script src="./experience.js?v=20261109-balanced-experience"></script>
+<script src="./state.js?v=20261113-start-only"></script>
+<script src="./conversations.js?v=20261113-start-only"></script>
+<script src="./artwork.js?v=20261113-start-only"></script>
+<script src="./experience.js?v=20261113-start-only"></script>
 <script src="./module.js?v=20261109-event-en-chat-es"></script>
 <script src="../../shared/project-page.js"></script>
 </body></html>

diff --git a/projects/05-profe-gabi/artwork.css b/projects/05-profe-gabi/artwork.css
@@ -39,3 +39,19 @@
 .gabi-art-welcome.gabi-tv-invite>.gabi-official-avatar{width:260px;height:260px;flex:none;object-fit:contain}
 .gabi-art-welcome.gabi-tv-invite>h2{max-width:760px;line-height:1.15;margin:0}
 .gabi-art-welcome.gabi-tv-invite>p{max-width:740px;margin:0}
+.gabi-art-context.is-updated>h2{font-size:36px;line-height:1.05;margin:5px 0}
+.gabi-art-context.is-updated>div{font-size:23px;line-height:1.05}
+.gabi-art-context.is-updated>p{letter-spacing:.25em}
+.gabi-art-steps{height:54px;display:flex;align-items:center;justify-content:space-between;position:relative}
+.gabi-art-steps:before{content:'';position:absolute;left:26px;right:26px;height:3px;background:#d0e0ff}
+.gabi-art-steps>span{position:relative;border-radius:50%;background:#d0e0ff;width:52px;height:52px;display:grid;place-items:center;font-size:20px;font-weight:650}
+.gabi-art-steps>.is-active{background:#005cff;color:#fff}
+.gabi-art-utilities{position:absolute;bottom:25px;left:140px;display:flex;align-items:center;gap:28px;z-index:8;color:#005cff;font-size:20px}
+.gabi-art-utilities button{display:flex;align-items:center;gap:10px;border:0;background:transparent;color:inherit;font:inherit;min-height:calc(44px / var(--gabi-art-scale,1));padding:5px 10px}
+.gabi-art-utilities svg{width:24px;height:24px}
+.gabi-art-utilities [data-gabi-connection]{font-size:16px}
+.gabi-art-tv-selected p{font-size:30px;line-height:1.2;margin:0}
+.gabi-art-header{border-radius:0}
+/* Retire the former toolbar, including when an older renderer is still loaded. */
+.gabi-approved-screen .gabi-art-toolbar,
+.gabi-approved-screen .gabi-art-utilities{display:none!important}

diff --git a/projects/05-profe-gabi/review/2026-11-13/README.md b/projects/05-profe-gabi/review/2026-11-13/README.md
@@ -1,0 +1,25 @@
+# Profe Gabi — local artwork review, 2026-11-13
+
+Reviewed locally and approved by the user for GitHub PR publication and Netlify deployment on 2026-11-13.
+
+## Approved source images
+
+- `BID AI Exhibition hall (6).zip`: updated tablet follow-up/result and TV conversation/result PNGs, copied without re-encoding.
+- `Group 2147213273.png`: supplied infographic, copied without re-encoding as `tv-information-en.png`. All copy, including 4,181, 85% and “In 2027”, is preserved exactly as supplied.
+- Case selection, waiting and thinking content is intentionally unchanged at the user's explicit request. No autism case or autism label has been incorporated.
+- Cover: `Group 2147213243.png`, copied byte-for-byte as `tablet-cover-en.png`. Original texts, avatar, icon, layout and header are preserved; only transparent Home/Information/Interactive Experience hit areas are added.
+
+## Interaction
+
+The supplied Back, Play again and Start artwork uses transparent, accessible HTML hit areas. Start returns to the general project menu. The dynamic Spanish conversation and case-specific choices remain HTML so the approved script, balanced reading parts, manual Continue and tablet/TV synchronization keep working. The supplied titles, avatar, result guidance, header, progress styling and infographic remain image artwork; the selected topic and actual progress update over the image.
+
+The English conversation disclaimer follows the new TV artwork verbatim: “Preprogrammed exhibition messages; these are not actual or verified Profe Gabi responses.” No changes were made to the Spanish questions or responses.
+
+Main menu, Fullscreen and Connected have been removed throughout Project 05, including the case-selection screen. The original Start artwork from the new header is visible, with a transparent Home hit area returning to the general project menu. Information leaves the tablet on the same cover while displaying the new infographic on TV; both choices are active from the start.
+
+## Local links
+
+- Tablet: http://localhost:4173/projects/05-profe-gabi/index.html?station=5
+- TV: http://localhost:4173/display.html?station=5
+
+See `event-language-report.json` and the PNG previews in this folder for local browser verification. Asset checksums and source names are recorded in `assets/branded/manifest.json`.

diff --git a/projects/05-profe-gabi/README.md b/projects/05-profe-gabi/README.md
@@ -68,3 +68,8 @@ node --test tests/smoke.test.js tests/firebase-sync.test.js
 Puede indicarse otro servidor mediante `TEST_URL`. La integración recorre los ocho desenlaces y sus 23 entregas, verificando idioma, texto íntegro, disclaimer, ausencia de recortes, avance manual, recarga, fullscreen, reconexión, Home/Back/reinicio y aislamiento. Los informes están en `review/2026-11-09/`.
 
 La prueba usa contextos independientes y tamaños de navegador emulados; no sustituye una revisión con el hardware físico del evento.
+
+
+## Approved artwork update ? 2026-11-13
+
+Uses the original supplied English cover and infographic PNGs and the updated follow-up and result screens. Transparent touch areas preserve Home (Start), Information, Interactive Experience, Back and Play again. The former language/menu/fullscreen/connection toolbar is removed. Case selection and its initial waiting/thinking artwork remain unchanged at the user's request; no autism case was added. Existing Spanish conversations and balanced manual reading parts are preserved. See `review/2026-11-13/README.md` for exact image sources, copy and verification.
